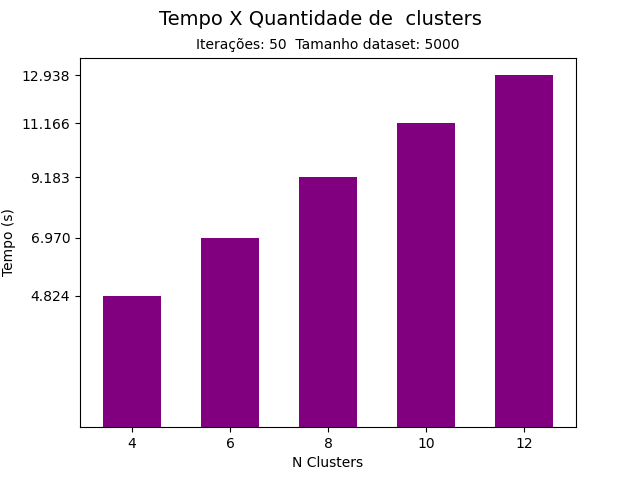
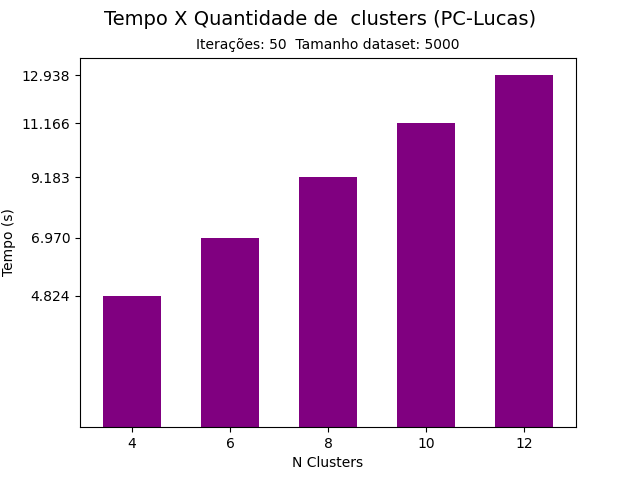
ajuste

Changed region(s): [[0.1562, 0.0, 0.8438, 0.0625]]

diff --git a/tests/test_setup.py b/tests/test_setup.py
@@ -138,7 +138,7 @@ class KMeansTestCase:
 
         fig, ax = plt.subplots()
         if 'nclusters' in fname:
-          plt.suptitle("Tempo X Quantidade de  clusters\n", fontsize=14)
+          plt.suptitle("Tempo X Quantidade de  clusters (PC-{})\n".format(PERSON), fontsize=14)
           plt.title("Iterações: {}  Tamanho dataset: {}".format(int(f[2][0]), int(f[3][0])), fontsize=10)
           plt.bar(f[1], f[0], width=1.2, color="purple")
           plt.xlabel("N Clusters")
@@ -146,7 +146,7 @@ class KMeansTestCase:
           plt.ylabel("Tempo (s)")
           plt.yticks(f[0])
         else:
-          plt.suptitle("Tempo X Tamanho do dataset\n", fontsize=14)
+          plt.suptitle("Tempo X Tamanho do dataset (PC-{})\n".format(PERSON), fontsize=14)
           plt.title("Iterações: {}  N Clusters: {}".format(int(f[2][0]), int(f[1][0])), fontsize=10)
           plt.plot(f[0], f[3], '-o', color='blue', mfc='r', mec='r', markersize=8, linewidth=2)
           plt.ylabel("Tamanho")
